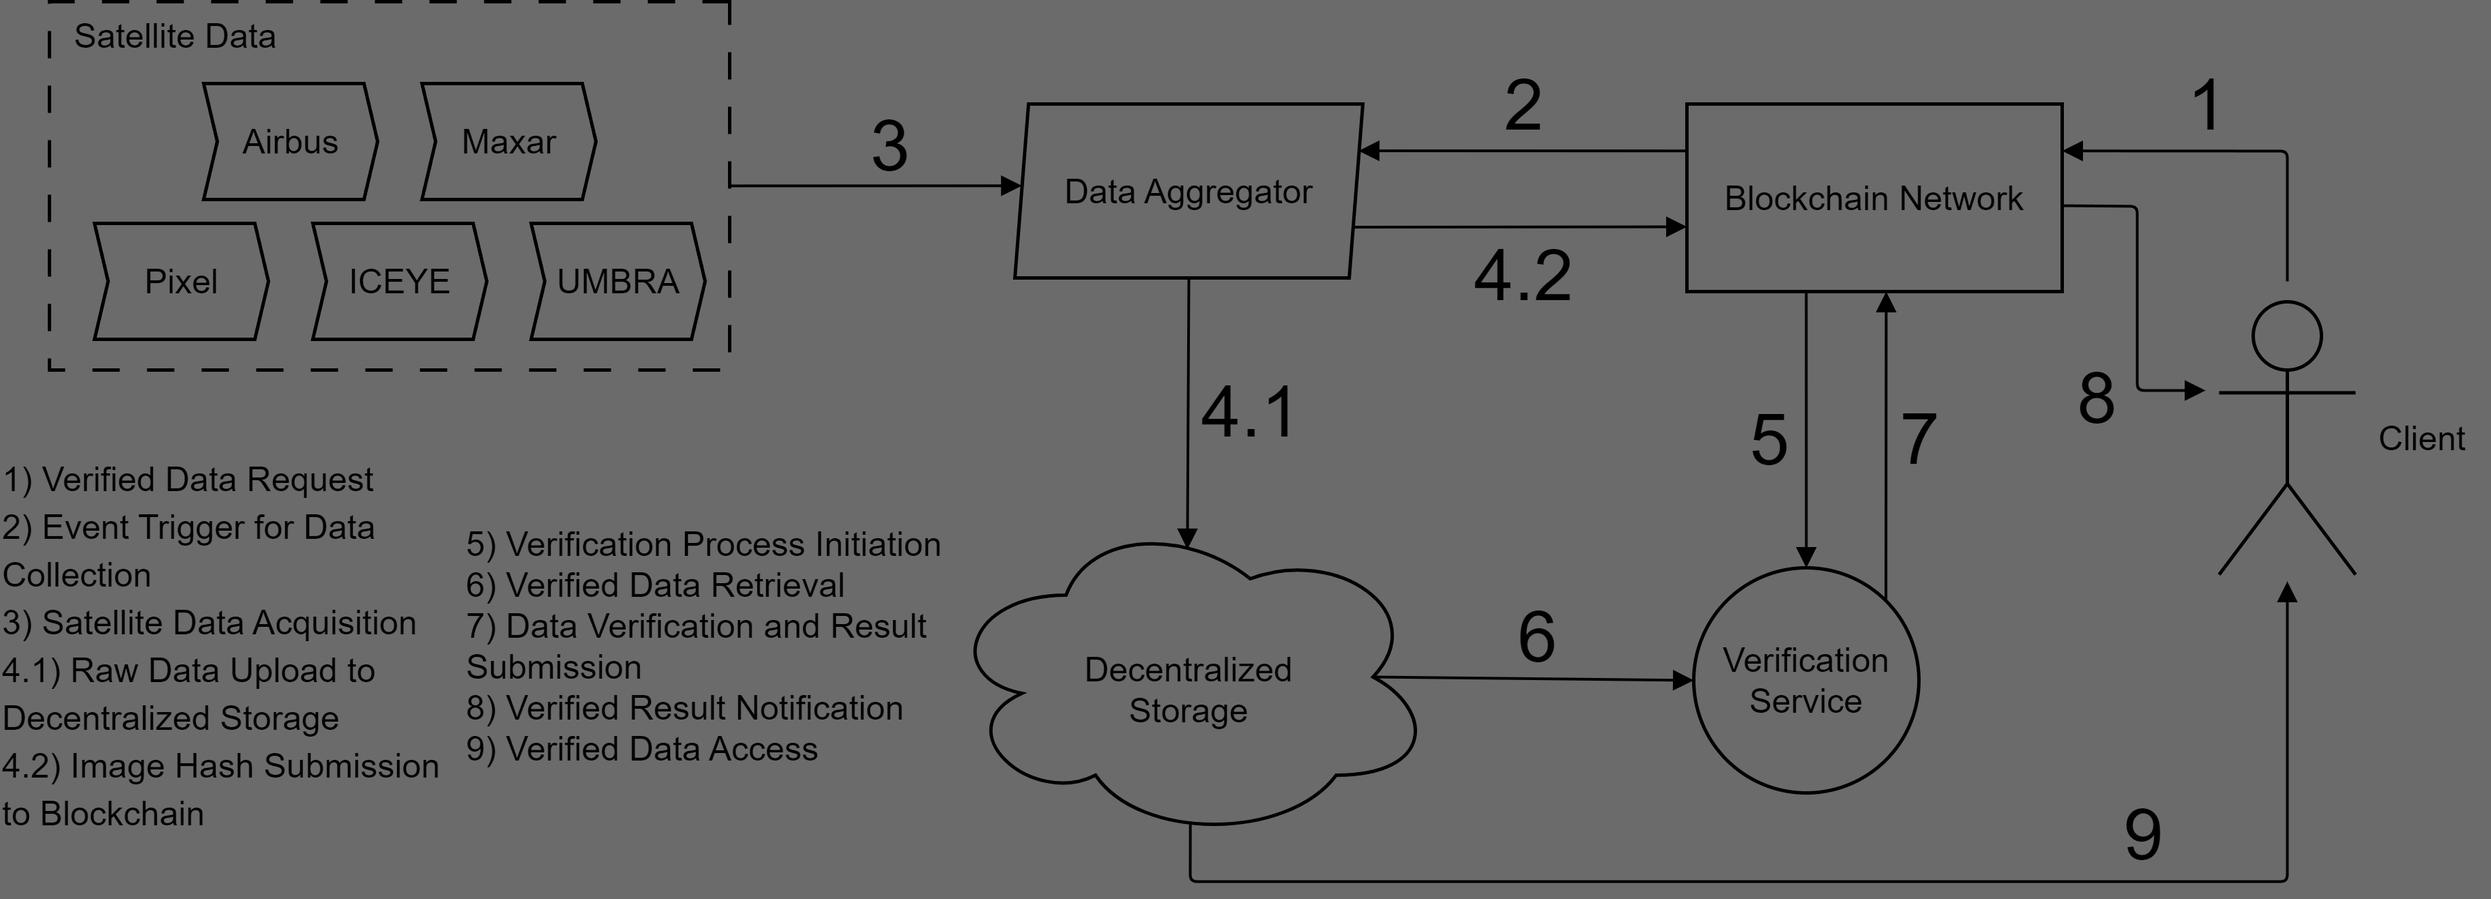
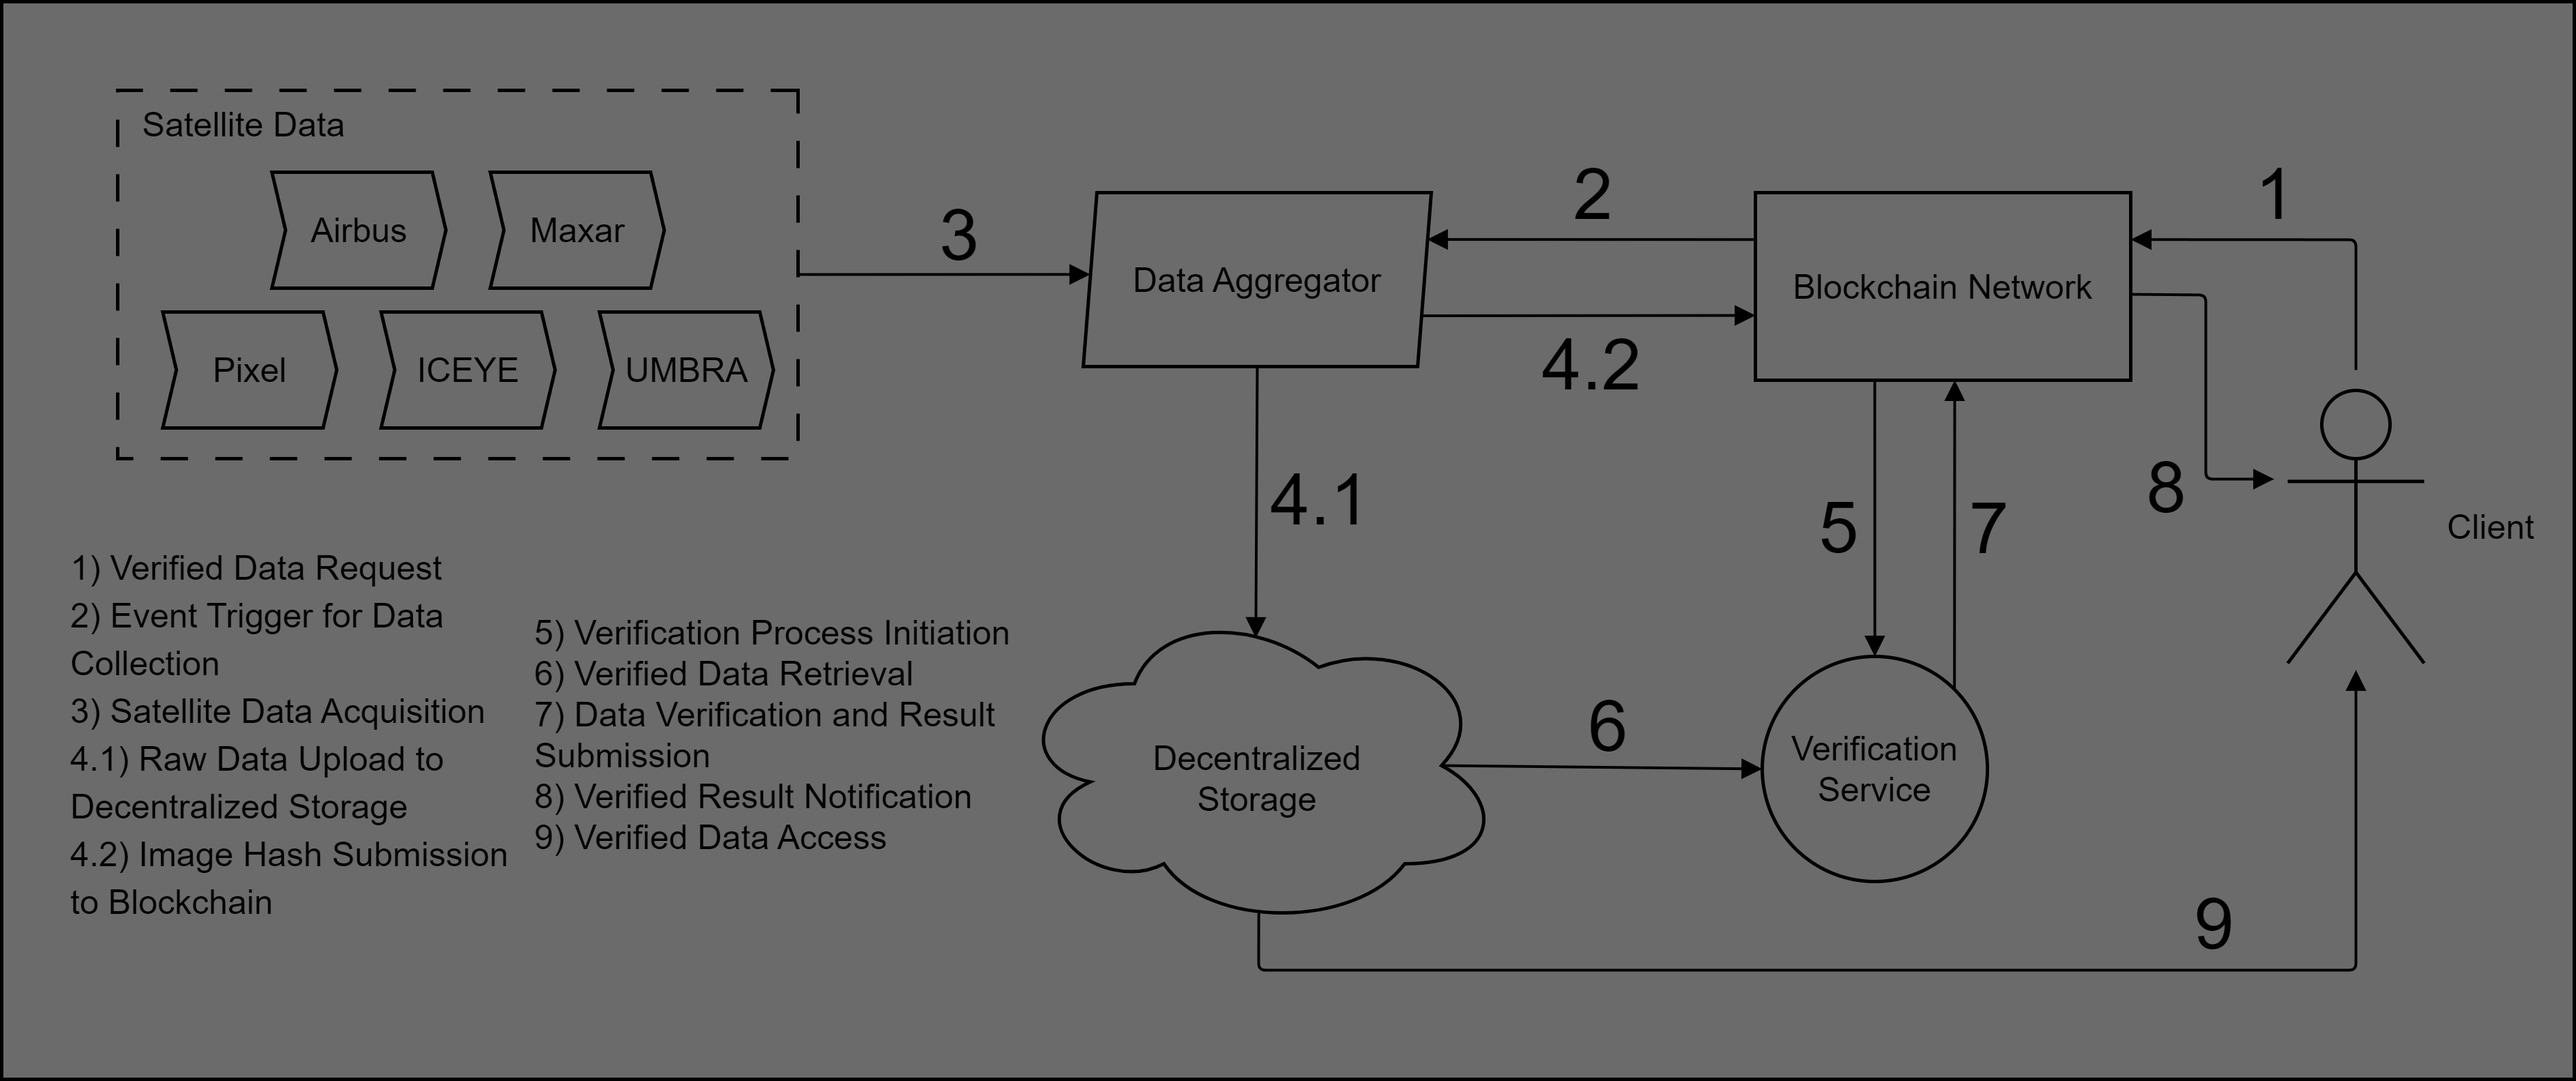
Refactor README.md to include project structure diagram

diff --git a/README.md b/README.md
@@ -1,3 +1,5 @@
+![](./project-structure.png "")
+
 # 💎 Idea
 SpaceBlock ([https://spaceblock.eu](https://spaceblock.eu)) addresses the critical issue of data authenticity in satellite imagery used for major environmental decisions. Our solution tackles the problem of potential manipulation or bias from single-source satellite data, which can significantly impact policies affecting millions of people and billions in resources. 
 
@@ -9,7 +11,7 @@ Our project utilizes satellite imagery and data from multiple providers, includi
 # 🌍 Space for Environment & Green Transition 
 SpaceBlock primarily addresses Challenge #1: Carbon footprint reporting, with a focus on carbon credit fraud detection and improving reporting & certifications. By ensuring the authenticity and consensus of satellite data, we contribute to more accurate carbon credit verification and robust environmental reporting systems. This approach helps combat fraud in carbon markets and enhances the credibility of environmental certifications, supporting the global transition to a greener economy.
 
-🤼 Team
+# 🤼 Team
 
 - Tom: PhD student in Aeronautical Engineering, Data Scientist. Space enthusiast with a passion for the aeronautical sphere, adept at analyzing big datasets to derive meaningful insights for environmental monitoring.
 - Nalinkumar: Master's student in Mechanical Engineering, Research Analyst. Sustainability enthusiast skilled in designing efficient, sustainable systems, bringing a holistic engineering perspective to environmental solutions.
